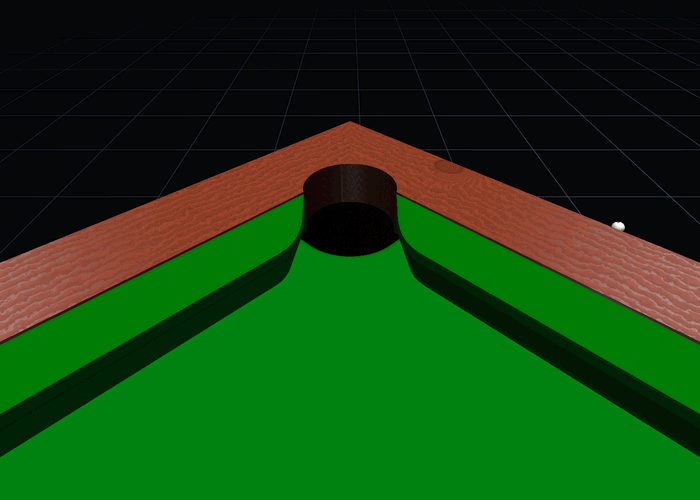
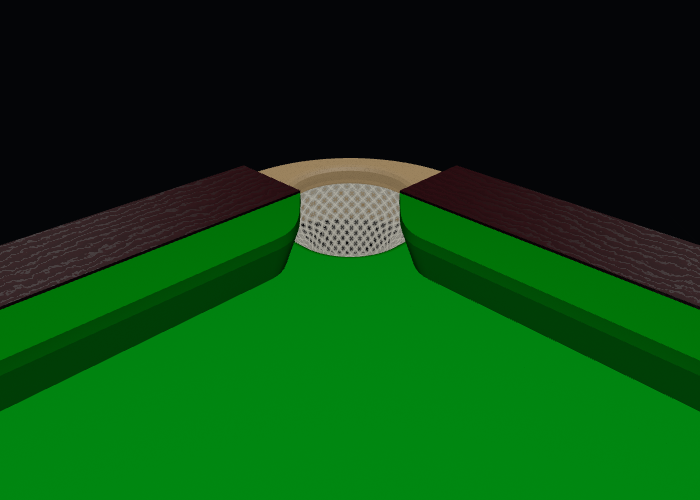
The guide shows the table the game actually builds
Every per-game table shot was taken before the club table existed, so the
snooker pictures had no bags, no castings and no ball return, and the
pocket close-ups showed a plain bored ring. All 23 are re-rendered off
the current build, and so are the four pocket shots.

THREE THINGS THEY NOW DO THAT THEY DID NOT.

A CLOTH PER GAME. Every shot was on the same green, which made a page of
them unreadable -- Chinese 8-ball is on blue, the American games on
their own colours, and the snooker family on championship green over the
TOURNAMENT rails the match tables are dressed in.

THE BALLS EACH GAME IS PLAYED WITH. UK 8-ball on yellows and reds,
9-ball and 10-ball on the numbered PRO set the rotation games need,
pyramid on the ivories, bar billiards on its seven whites and a red, and
bowlliards on TENPIN.

A CAMERA THAT SCALES WITH THE BED. One fixed distance made a 12 ft
snooker table fill the frame and a bar billiards table a smudge in the
middle of it. The distance now comes from the bed length.

AND THE TEXT CATCHES UP with 2.7: string pockets, the brass ring, the
sloping collector and what happens to a ball you pot -- with a shot from
under the table, which is the only place any of it can be seen; the
SNOOKER body, which is the fifth and the only one with room underneath
for the bags; the sights and corner castings; and the frame list, which
had seven woods in it before TOURNAMENT was added.

diff --git a/docs/cuevr-guide.html b/docs/cuevr-guide.html
@@ -2321,7 +2321,7 @@
   hands online — they see the cue they chose.</p>
 
   <h3>Table designs</h3>
-  <p>Four bodies, on the <b>TABLE</b> row. Each one follows the shape of the bed, so an L-shaped or
+  <p>Five bodies, on the <b>TABLE</b> row. Each one follows the shape of the bed, so an L-shaped or
   many-sided table gets the design you asked for rather than a plain box.</p>
 
   <div class="grid g2">
@@ -2344,16 +2344,24 @@
       leaning out under the cloth line with a timber skirt tucked under its lip, matte-black pocket
       castings wrapping each corner and capping each middle, two arched pedestal legs on round
       adjustable feet, and a full-width ball-return slot at the head end.</figcaption></figure>
+    <figure><img src="img/cuevr/body-snooker.png" alt="The Snooker table body">
+      <figcaption><span class="cap-t">SNOOKER</span> — the club table. A heavy cabinet set back
+      under an overhanging frame, on turned legs, and the only body that leaves room underneath for
+      the bags and the collector rails. A netted table is built on this one and nothing else, because
+      on any other design the furniture has nowhere to hang.</figcaption></figure>
   </div>
 
   <p><b>AUTO</b> gives each table the body it would really have: the pub table gets CABINET, the
-  American beds and straight pool get AMERICAN, 6-red snooker gets REGENCY, the 10 ft snooker table
-  gets VICTORIAN, any many-sided or round bed gets VICTORIAN, and the rest — the 12 ft match table
-  and the Chinese 10 ft — get REGENCY.</p>
+  American beds and straight pool get AMERICAN, 3-red and 6-red snooker get REGENCY, any many-sided
+  or round bed gets VICTORIAN, and the 12 ft match table, 10-red snooker and English billiards get
+  SNOOKER. The Chinese 10 ft gets REGENCY.</p>
+  <p>A table dressed with <b>string pockets</b> is always built on SNOOKER, whichever body you pick.
+  The bags and the collector rails hang in the shelf that body's overhang leaves, and on any other
+  design they would be buried in the cabinet or left floating under it.</p>
 
   <div class="note">
     <b>One timber setting covers the whole table.</b> There is no separate setting for the body. The
-    <b>FRAME</b> row picks one of seven woods for the rails, and the body is made of the same wood:
+    <b>FRAME</b> row picks one of eight woods for the rails, and the body is made of the same wood:
     apron, skirt, legs and the square blocks under a Regency or Victorian leg all take the colour
     you chose, with the lit mouldings a little paler and the shadowed courses darker.
     <br><br>
@@ -2364,6 +2372,19 @@
     square leg needs a flat face above it to line up with. Above eight corners it takes every other
     corner, so a round table gets six legs and not twelve.
   </div>
+
+  <h3>Rail furniture</h3>
+  <p>Two more pieces of hardware sit on the rails, and both follow the table rather than your
+  timber.</p>
+  <ul>
+    <li><b>Sights</b> — the diamonds and dots along the rails that you aim a bank off. Every table
+    carries the set its own game uses.</li>
+    <li><b>Corner castings</b> — the cap that wraps each corner, in <b>chrome</b> or in <b>black
+    plastic</b>. Snooker tables get the chrome; the American body's are the matte black ones
+    already described above.</li>
+  </ul>
+  <p>The <b>TABLE WORKSHOP</b> can dress a table it built with the same furniture — see
+  <a href="#workshop">Build a table</a>.</p>
 
   <h3>Balls</h3>
   <p>Seventeen sets, and they are <b>presets</b> in the same sense the tables are — every one of
@@ -2581,10 +2602,11 @@
   <div class="grid g3">
     <figure><img src="img/cuevr/pocket-snooker-corner.png" alt="A snooker corner pocket">
       <figcaption><span class="cap-t">SNOOKER, CORNER</span> — rounded jaws leaving the rail on a
-      curve, with the flat rim of cloth round the hole.</figcaption></figure>
+      curve, the flat rim of cloth round the hole, a chrome casting over the corner and the string
+      bag hanging under it.</figcaption></figure>
     <figure><img src="img/cuevr/pocket-snooker-middle.png" alt="A snooker middle pocket">
-      <figcaption><span class="cap-t">SNOOKER, MIDDLE</span> — wider than the corner, and turning
-      much further from the rail to the pocket's axis.</figcaption></figure>
+      <figcaption><span class="cap-t">SNOOKER, MIDDLE</span> — wider than the corner, turning much
+      further from the rail to the pocket's axis, and hung with the same bag.</figcaption></figure>
     <figure><img src="img/cuevr/pocket-us-corner.png" alt="An American corner pocket">
       <figcaption><span class="cap-t">AMERICAN, CORNER</span> — straight mitred facings, and half a
       ball wider than the snooker one.</figcaption></figure>
@@ -2614,6 +2636,29 @@
     <li><b>The Chinese table is the tightest of the pool games</b> at 1.50 balls, and the Russian
     tables are tighter than anything else here by a long way.</li>
   </ul>
+
+  <h3>String pockets, and where a potted ball goes</h3>
+  <p>A snooker table does not swallow a ball. It catches it in a bag and hands it back to you, and
+  the whole run is built: a leather plate round the back of the pocket, a knotted string bag
+  hanging from the plate, a brass ring at the bottom of the bag, and under the ring a wire
+  collector running along the side of the table. The collector slopes.</p>
+  <figure><img src="img/cuevr/pocket-collector.png" alt="The underside of a snooker table: the
+    brass ring at the bottom of a string bag, and the wire collector running away along the side">
+    <figcaption><span class="cap-t">UNDER THE POCKET</span> — the brass ring at the mouth of the
+    bag, and the sloping wire cradle it drops onto. Balls run down it and stack against the leather
+    at the end.</figcaption></figure>
+  <ul>
+    <li><b>It is the ball you potted</b>, carrying the pace and the direction you potted it with,
+    and it starts falling the moment it leaves the bed rather than waiting for the shot to
+    finish.</li>
+    <li><b>The balls hit each other on the way in</b>, and the row shifts along when a new one
+    arrives. Every contact makes its own noise.</li>
+    <li><b>A full collector passes the ball on</b> to an emptier one.</li>
+    <li><b>Respot a colour</b> and it is lifted back out of the collector.</li>
+    <li><b>Replays show the pockets too</b>, so you can watch a pot go down the bag again.</li>
+  </ul>
+  <p>3-red, 6-red, 10-red and Chinese 8-ball are all built the same way. The other tables have a
+  lined drop instead, which is why they sound the same whatever hits them.</p>
 
   <p>If you want to see what a different pocket plays like, you can build one — see the next
   section.</p>
